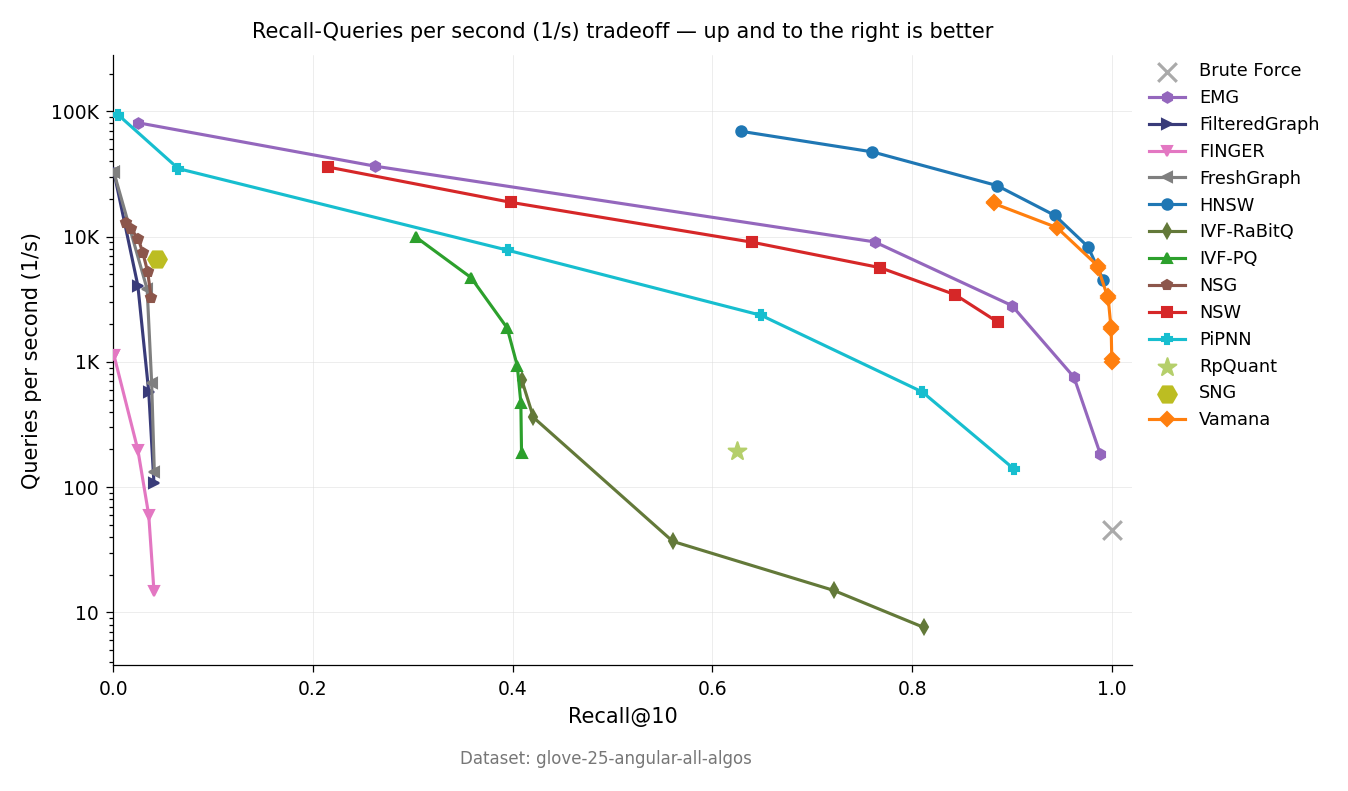
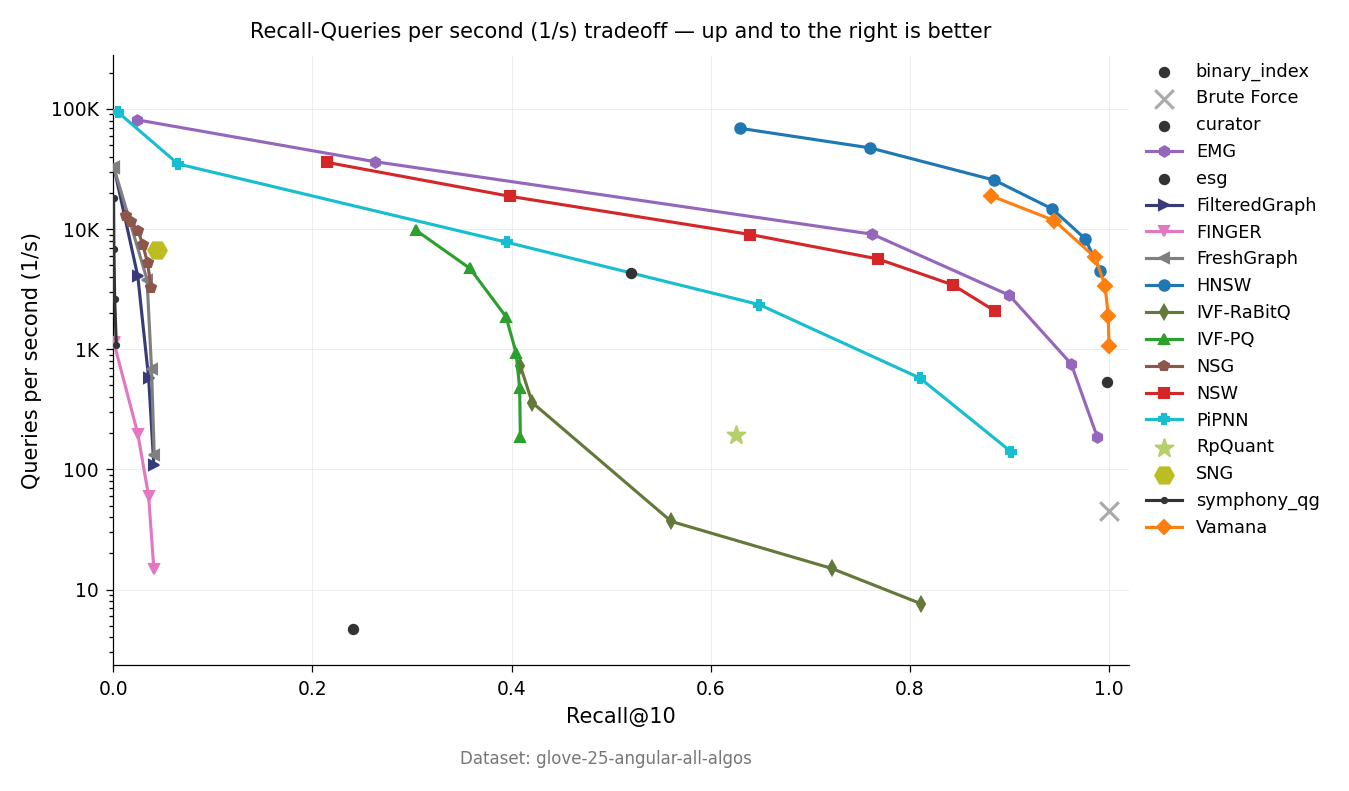
benchmarks: add curator, esg, binary_index results; regenerate Pareto plot
GloVe-25 new results:
- Curator: 52.0% recall at 4,302 QPS (1.3s build)
- ESG: 99.8% recall at 531 QPS (409s build, HNSW wrapper)
- BinaryFlat: 24.0% recall at 4.7 QPS (flat scan, too slow at 1.18M)
- SymphonyQG excluded (RaBitQ error too large at d=25)

Also guard SymphonyQG quantize_vectors against n=0.

diff --git a/docs/benchmark-results.md b/docs/benchmark-results.md
@@ -27,6 +27,13 @@ QPS: sequential single-query throughput (queries / wall-clock seconds). 50-query
 | FreshGraph | 4.1% | 132 | 104 | Capped at 50K |
 | FilteredGraph | 4.1% | 108 | 127 | Capped at 50K |
 
+| Curator | 52.0% | 4,302 | 1.3 | K-means tree, no ef sweep |
+| ESG | 99.8% | 531 | 409 | HNSW wrapper with range filter |
+| BinaryFlat | 24.0% | 5 | 0.6 | Flat scan, too slow at 1.18M |
+
+SymphonyQG is excluded: RaBitQ error is O(1/sqrt(d)), and at d=25 the approximation
+is too noisy (<0.3% recall). SymphonyQG is designed for d >= 128.
+
 NSG, SNG, Finger, FreshGraph, and FilteredGraph are capped at 50K vectors due to
 construction cost. Their recall reflects the 50K/1.18M ground truth mismatch (~4.2%
 expected), not algorithm quality. Within the 50K subset, these algorithms work correctly.
@@ -129,6 +136,25 @@ too coarse for 25-d data. Not a bug -- inherent quantization granularity.
 
 Build: <1s. Single recall point: 62.5% at 193 QPS.
 
+## Filtered / Tree-Based Indexes
+
+### Curator (branching=16, leaf=128)
+
+Build: 1.3s. K-means tree with Bloom filter pruning. Single recall point (no ef sweep):
+52.0% recall at 4,302 QPS.
+
+### ESG (m=16, ef_search=100)
+
+Build: 409s. Wraps HNSW internally with range-filter post-processing. Single recall
+point: 99.8% recall at 531 QPS. The high recall reflects the underlying HNSW quality;
+the lower QPS is due to post-filtering overhead.
+
+### BinaryFlat (rerank_factor=10)
+
+Build: 0.6s. Flat binary quantization scan with full-precision reranking. Single
+recall point: 24.0% recall at 4.7 QPS. Not competitive at 1.18M scale -- designed
+for smaller datasets or as a building block for hierarchical binary indexes.
+
 ## Brute Force
 
 Exact k-NN via exhaustive cosine: 100% recall at 45 QPS.
@@ -140,6 +166,8 @@ Exact k-NN via exhaustive cosine: 100% recall at 45 QPS.
 - NSG, SNG, Finger, FreshGraph, FilteredGraph are capped at 50K vectors
   during construction. Their low recall reflects the cap, not algorithm quality.
 - IVF-PQ with 5 codebooks on 25-d is a known misconfiguration.
+- SymphonyQG requires d >= 128 for useful recall; RaBitQ error O(1/sqrt(d)) is too large at d=25.
+- BinaryFlat is a flat scan; use for d >= 256 where binary quantization compresses well.
 
 ## References
 
